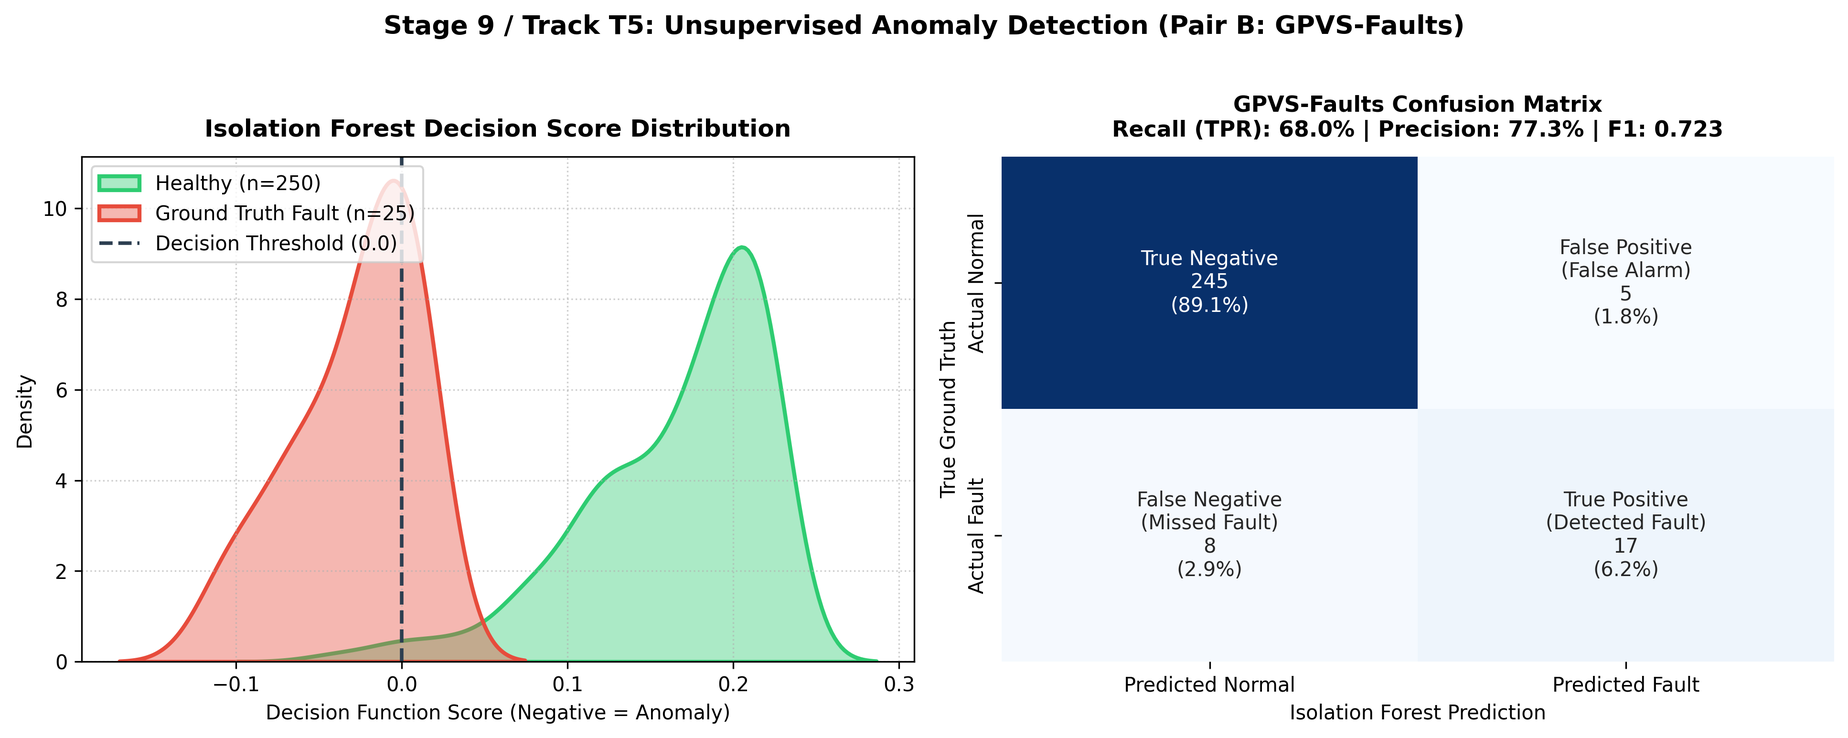
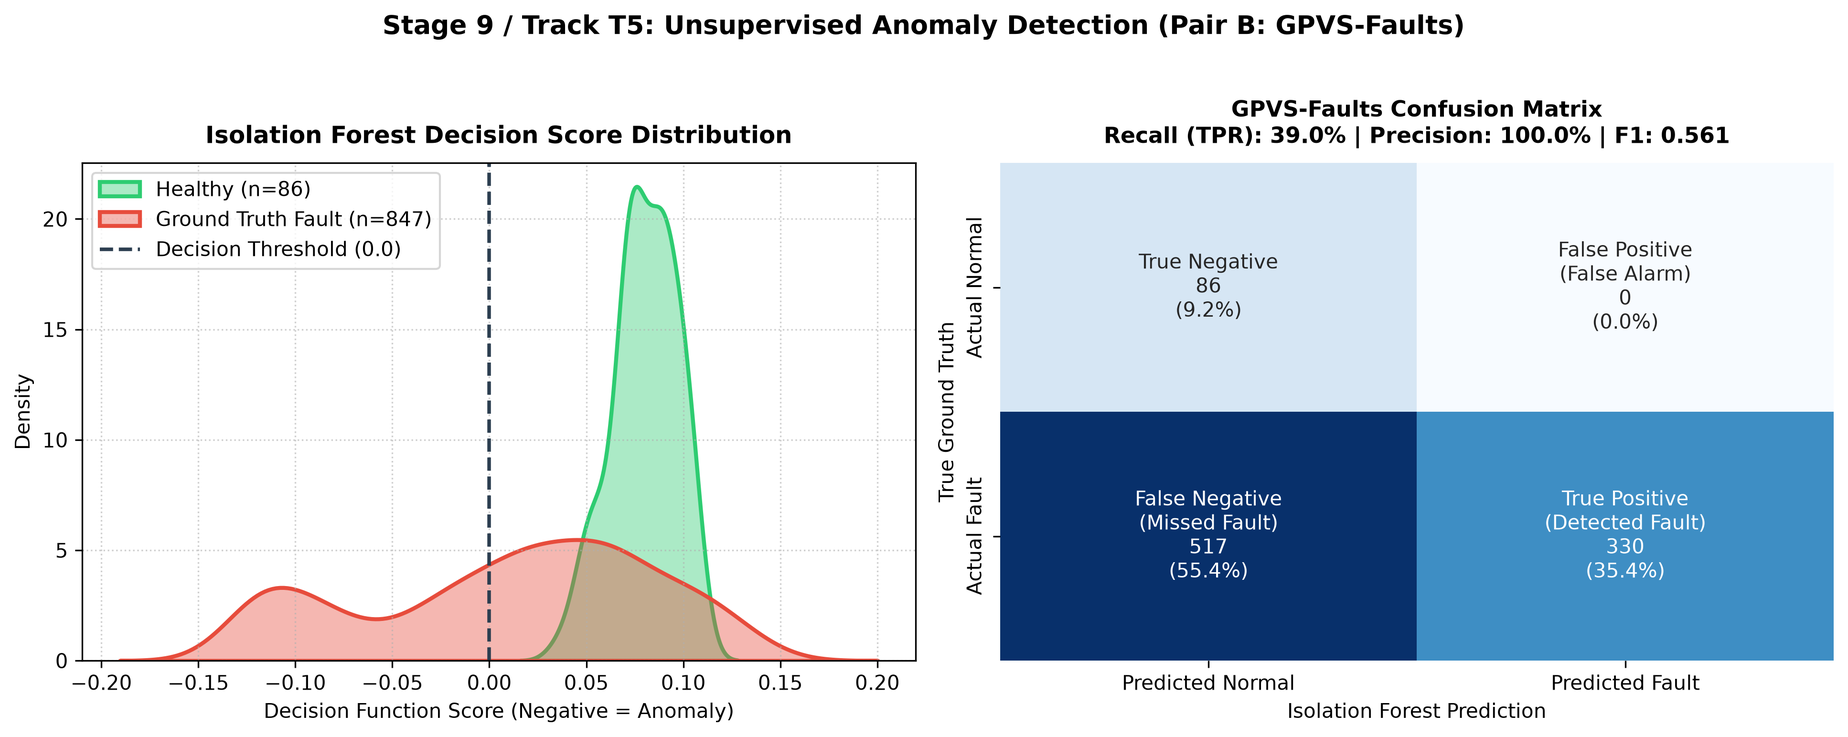
fix(b2): run the GPVS-Faults benchmark on the real dataset
data/raw/GPVS-Faults/ was never present, so load_gpvs_faults() silently
generated mock data (1,000 normal and 100 fault rows from fixed normal
distributions). The reported "real fault" result (recall 0.68, F1 0.72)
came from that mock data.

- evaluate.py: loads the 16 real scenario CSVs (Mendeley Data, DOI
  10.17632/n76t439f65.1, CC BY 4.0) as 0.1 s windows with DC statistics
  and phase RMS (18 features). F0 is normal; in F1-F7 the first 45% is
  normal, the last 45% fault, the middle 10% dropped (faults start
  halfway). Raises an error with download instructions if the data is
  missing; a separately named synthetic helper is kept for tests only.
- iforest.py: fitted on normal windows only, tested on held-out F0
  windows and all fault windows; detection per scenario saved to
  reports/tables/gpvs_iforest_by_scenario.csv; logs only with --log.
- Real result: precision 1.00, recall 0.39, F1 0.56, false alarms 0 of
  86 normal windows. F5 always caught, F6/F7 almost never.
- results.csv and every report that quoted the mock result are updated.

diff --git a/src/models/iforest.py b/src/models/iforest.py
@@ -25,7 +25,6 @@ import seaborn as sns
 from sklearn.ensemble import IsolationForest
 from sklearn.pipeline import Pipeline
 from sklearn.preprocessing import StandardScaler
-from sklearn.model_selection import train_test_split
 from sklearn.metrics import (
     precision_score,
     recall_score,
@@ -35,7 +34,8 @@ from sklearn.metrics import (
 )
 
 from src.evaluate import (
-    load_gpvs_faults,
+    gpvs_feature_columns,
+    load_gpvs_windows,
     evaluate_fault_detection,
     log_experiment,
 )
@@ -176,86 +176,94 @@ def plot_gpvs_anomaly_results(y_test, raw_preds, scores, metrics, save_path=None
 # 3. Task 5: GPVS-Faults Real Fault Benchmark (Pair B Core Task)
 # ===========================================================================
 
-def run_gpvs_experiment(test_size=0.25, random_state=42, save_plot=True):
-    """Train Isolation Forest and evaluate on the GPVS-Faults real benchmark."""
+TRAIN_NORMAL_SHARE = 0.70   # first 70% (in time) of the fault-free files is used for training
+CONTAMINATION = 0.05
+
+
+def split_gpvs(windows):
+    """Unsupervised protocol: train on normal windows only, test on unseen ones.
+
+    Train: F0L/F0M windows in the first 70% of each file, plus the normal
+    first halves of the fault files. Test: the last 30% of F0L/F0M (normal)
+    and every fault window of F1-F7.
+    """
+    f0 = windows["fault_type"].eq(0)
+    early = windows["position"] < TRAIN_NORMAL_SHARE
+    train = windows[(f0 & early) | (~f0 & windows["is_fault"].eq(0))]
+    test = windows[(f0 & ~early) | windows["is_fault"].eq(1)]
+    return train, test
+
+
+def run_gpvs_experiment(random_state=42, save_plot=True, log=False):
+    """Train Isolation Forest on normal GPVS-Faults windows and evaluate on real faults."""
     print("\n" + "=" * 65)
     print("TASK 5: UNSUPERVISED ANOMALY DETECTION ON GPVS-FAULTS (REAL FAULTS)")
     print("=" * 65)
 
     start_time = time.time()
 
-    # 1. Load real physical faults
-    print("Loading GPVS-Faults dataset...")
-    X, y = load_gpvs_faults()
-    print(f"Dataset shape: {X.shape}")
-    print(f"Features: {list(X.columns)}")
-    print(f"Class distribution -> Healthy (0): {(y == 0).sum():,}, Faults (1): {(y == 1).sum():,}")
+    # 1. Load real laboratory data as 0.1 s windows (raises if not downloaded)
+    print("Loading GPVS-Faults windows...")
+    windows = load_gpvs_windows()
+    features = gpvs_feature_columns(windows)
+    train, test = split_gpvs(windows)
+    print(f"Windows: {len(windows):,} ({windows['is_fault'].sum():,} fault) from "
+          f"{windows['scenario'].nunique()} scenario files; {len(features)} features")
+    print(f"Train (normal only): {len(train):,} | Test: {len(test):,} "
+          f"({int(test['is_fault'].sum()):,} fault, {int((test['is_fault'] == 0).sum()):,} normal)")
 
-    # Estimate contamination from ground truth
-    contamination = float((y == 1).sum() / len(y))
-    contamination = max(0.01, min(0.20, contamination))
-    print(f"Estimated fault contamination rate: {contamination:.3f}")
+    # 2. Fit on normal windows only (no labels used)
+    model = build_isolation_forest(n_estimators=200, contamination=CONTAMINATION,
+                                   random_state=random_state)
+    model.fit(train[features])
 
-    # 2. Stratified train/test split
-    X_train, X_test, y_train, y_test = train_test_split(
-        X, y,
-        test_size=test_size,
-        random_state=random_state,
-        stratify=y,
-    )
-
-    # 3. Train IsolationForest (unsupervised)
-    print("\nFitting IsolationForest on training telemetry...")
-    model = build_isolation_forest(
-        n_estimators=100,
-        contamination=contamination,
-        random_state=random_state,
-    )
-    model.fit(X_train)
-
-    # 4. Predict on test set
-    raw_preds = model.predict(X_test)
+    # 3. Predict on held-out windows
+    raw_preds = model.predict(test[features])
     scores = model.named_steps["iforest"].decision_function(
-        model.named_steps["scaler"].transform(X_test)
+        model.named_steps["scaler"].transform(test[features])
     )
-
-    # 5. Evaluate metrics
-    metrics = evaluate_anomalies(y_test, raw_preds)
+    metrics = evaluate_anomalies(test["is_fault"], raw_preds)
     elapsed = time.time() - start_time
 
+    # 4. Detection rate per fault scenario
+    flagged = pd.Series(raw_preds == -1, index=test.index)
+    per_scenario = (test.assign(flagged=flagged)
+                    .groupby(["scenario", "fault_type", "mode", "is_fault"])["flagged"]
+                    .agg(windows="size", flagged_share="mean").reset_index())
+    per_scenario["flagged_share"] = per_scenario["flagged_share"].round(4)
+    per_scenario.to_csv(ROOT / "reports" / "tables" / "gpvs_iforest_by_scenario.csv", index=False)
+
     print("\n" + "-" * 50)
-    print("GPVS-FAULTS TEST RESULTS (REAL PHYSICAL FAULTS)")
+    print("GPVS-FAULTS TEST RESULTS (REAL LABORATORY FAULTS)")
     print("-" * 50)
     print(f"Fault Detection Recall (TPR):  {metrics['recall']:.2%}")
     print(f"Precision:                    {metrics['precision']:.2%}")
     print(f"F1-Score:                     {metrics['f1']:.4f}")
     print(f"False Alarm Rate (FPR):        {metrics['false_alarm_rate']:.2%}")
-    print(f"True Positives (Faults caught):{metrics['tp']}")
-    print(f"False Negatives (Missed):      {metrics['fn']}")
+    print(f"Confusion: TN={metrics['tn']}, FP={metrics['fp']}, FN={metrics['fn']}, TP={metrics['tp']}")
     print(f"Execution Time:               {elapsed:.2f}s")
-    print("-" * 50)
-    print("Confusion Matrix:")
-    print(f"[[TN={metrics['tn']}, FP={metrics['fp']}],")
-    print(f" [FN={metrics['fn']}, TP={metrics['tp']}]]")
+    print(per_scenario.to_string(index=False))
     print("-" * 50)
 
-    # 6. Save visualization plot
+    # 5. Save visualization plot
     if save_plot:
         plot_path = ROOT / "reports" / "figures" / "b1_iforest_gpvs_detection.png"
-        plot_gpvs_anomaly_results(y_test, raw_preds, scores, metrics, save_path=plot_path)
+        plot_gpvs_anomaly_results(test["is_fault"].to_numpy(), raw_preds, scores, metrics, save_path=plot_path)
 
-    # 7. Log to results/results.csv
-    log_experiment(
-        student="B1/B2",
-        model_name="IsolationForest (GPVS-Faults)",
-        task="anomaly_detection",
-        train_score="-",
-        val_score="-",
-        test_score=f"Recall: {metrics['recall']:.2f}, F1: {metrics['f1']:.2f}",
-        unseen_score="-",
-        notes=f"GPVS physical faults (open/short circuit). Precision: {metrics['precision']:.2f}, FPR: {metrics['false_alarm_rate']:.2f}",
-    )
-    print("Results logged to results/results.csv successfully.")
+    # 6. Log to results/results.csv (final run only)
+    if log:
+        log_experiment(
+            student="B1/B2",
+            model_name="IsolationForest (GPVS-Faults)",
+            task="anomaly_detection",
+            train_score="-",
+            val_score="-",
+            test_score=f"Recall: {metrics['recall']:.2f}, F1: {metrics['f1']:.2f}",
+            unseen_score="-",
+            notes=(f"Real GPVS-Faults lab data, 0.1 s windows, trained on normal windows only; "
+                   f"Precision: {metrics['precision']:.2f}, FPR: {metrics['false_alarm_rate']:.2f}"),
+        )
+        print("Results logged to results/results.csv successfully.")
 
     return model, metrics
 
@@ -270,7 +278,7 @@ if __name__ == "__main__":
     print("=" * 65)
 
     # Run GPVS-Faults real physical fault benchmark (Pair B core task)
-    model, gpvs_metrics = run_gpvs_experiment()
+    model, gpvs_metrics = run_gpvs_experiment(log="--log" in sys.argv)
 
     print("\n" + "=" * 65)
     print("Isolation Forest Execution Completed!")

diff --git a/src/evaluate.py b/src/evaluate.py
@@ -262,43 +262,80 @@ def evaluate_fault_detection(y_true_injected, anomaly_predictions):
 # 4. GPVS Real-Fault Benchmark
 # ---------------------------------------------------------------------------
 
-def load_gpvs_faults():
-    """Load real laboratory faults from data/raw/GPVS-Faults.
+GPVS_DIR = ROOT / "data" / "raw" / "GPVS-Faults"
+GPVS_WINDOW_S = 0.1             # 0.1 s = 5 grid cycles at 50 Hz, about 1,000 samples
+GPVS_NORMAL_END = 0.45          # faults start "halfway": first 45% of a fault file is normal
+GPVS_FAULT_START = 0.55         # last 45% is fault; the uncertain middle 10% is dropped
+GPVS_DC_SIGNALS = ["Ipv", "Vpv", "Vdc"]
+GPVS_AC_SIGNALS = ["ia", "ib", "ic", "va", "vb", "vc"]
+GPVS_DOWNLOAD = ("GPVS-Faults data not found in data/raw/GPVS-Faults/. Download CSV_Files.zip from "
+                 "https://data.mendeley.com/datasets/n76t439f65/1 (DOI 10.17632/n76t439f65.1, CC BY 4.0) "
+                 "and extract the 16 F*.csv files into data/raw/GPVS-Faults/.")
 
-    If files are not downloaded yet, generates a simple mock dataset
-    matching solar voltage, current, and power so the code runs.
+
+def gpvs_window_features(df, window_s=GPVS_WINDOW_S):
+    """Window statistics for one scenario file: mean/std/min/max of the DC
+    signals and RMS of the six phase currents and voltages, per window."""
+    w = (df["Time"] // window_s).astype(int)
+    g = df.groupby(w)
+    feats = g[GPVS_DC_SIGNALS].agg(["mean", "std", "min", "max"])
+    feats.columns = [f"{col}_{stat}" for col, stat in feats.columns]
+    rms = np.sqrt((df[GPVS_AC_SIGNALS] ** 2).groupby(w).mean()).add_suffix("_rms")
+    out = feats.join(rms)
+    out["t_start"] = g["Time"].min()
+    out["n_samples"] = g.size()
+    return out.reset_index(drop=True)
+
+
+def load_gpvs_windows(data_dir=GPVS_DIR, window_s=GPVS_WINDOW_S):
+    """All 16 GPVS-Faults scenarios as labelled windows.
+
+    Files are named F<x><y>: x = 0 fault-free, 1-7 fault type; y = L (IPPT) or
+    M (MPPT). F0 windows are all normal. In F1-F7 the fault is introduced
+    halfway, so the first 45% of each file is normal (is_fault 0), the last
+    45% is fault (is_fault 1) and the middle 10% is dropped. Raises an error
+    if the data is missing; there is no synthetic fallback.
     """
-    gpvs_dir = ROOT / "data" / "raw" / "GPVS-Faults"
-    csv_files = list(gpvs_dir.glob("*.csv")) if gpvs_dir.exists() else []
+    files = sorted(Path(data_dir).glob("F[0-7][LM].csv"))
+    if not files:
+        raise FileNotFoundError(GPVS_DOWNLOAD)
+    parts = []
+    for f in files:
+        win = gpvs_window_features(pd.read_csv(f), window_s)
+        win = win[win["n_samples"] >= 0.5 * win["n_samples"].median()]   # drop a short last window
+        pos = win["t_start"] / win["t_start"].max()
+        fault_type = int(f.stem[1])
+        if fault_type == 0:
+            win["is_fault"] = 0
+        else:
+            win["is_fault"] = np.where(pos >= GPVS_FAULT_START, 1, np.where(pos < GPVS_NORMAL_END, 0, -1))
+            win = win[win["is_fault"] >= 0]
+        win.insert(0, "scenario", f.stem)
+        win.insert(1, "fault_type", fault_type)
+        win.insert(2, "mode", "MPPT" if f.stem.endswith("M") else "IPPT")
+        win["position"] = pos.loc[win.index]
+        parts.append(win)
+    return pd.concat(parts, ignore_index=True)
 
-    if len(csv_files) > 0:
-        dfs = []
-        for f in csv_files:
-            sub = pd.read_csv(f)
-            # F0 means healthy, F1-F7 are faults
-            sub["is_fault"] = 0 if "f0" in f.name.lower() else 1
-            dfs.append(sub)
-        full = pd.concat(dfs, ignore_index=True)
-        feature_cols = [c for c in full.columns if c not in ["is_fault", "time"]]
-        return full[feature_cols], full["is_fault"]
 
-    # Simple fallback data so tests always pass
-    np.random.seed(42)
-    normal_v = np.random.normal(380, 5, 1000)
-    normal_i = np.random.normal(12, 1, 1000)
-    normal_p = normal_v * normal_i
+def gpvs_feature_columns(windows):
+    return [c for c in windows.columns
+            if c.endswith(("_mean", "_std", "_min", "_max", "_rms"))]
 
-    fault_v = np.random.normal(250, 20, 100)
-    fault_i = np.random.normal(3, 1, 100)
-    fault_p = fault_v * fault_i
 
-    X = pd.DataFrame({
-        "voltage": np.concatenate([normal_v, fault_v]),
-        "current": np.concatenate([normal_i, fault_i]),
-        "power": np.concatenate([normal_p, fault_p]),
-    })
-    y = np.concatenate([np.zeros(1000), np.ones(100)])
-    return X, y
+def load_gpvs_faults():
+    """Real GPVS-Faults windows as (X, y): window features and fault label."""
+    windows = load_gpvs_windows()
+    return windows[gpvs_feature_columns(windows)], windows["is_fault"].to_numpy()
+
+
+def make_synthetic_gpvs(seed=42):
+    """Synthetic stand-in data for unit tests ONLY; never use it for reported results."""
+    rng = np.random.RandomState(seed)
+    X = pd.DataFrame({"voltage": np.r_[rng.normal(380, 5, 1000), rng.normal(250, 20, 100)],
+                      "current": np.r_[rng.normal(12, 1, 1000), rng.normal(3, 1, 100)]})
+    X["power"] = X["voltage"] * X["current"]
+    return X, np.r_[np.zeros(1000), np.ones(100)]
 
 
 # ---------------------------------------------------------------------------
@@ -363,8 +400,11 @@ if __name__ == "__main__":
     fault_stats = evaluate_fault_detection(faulty_df["is_injected_fault"], faulty_df["is_injected_fault"])
     print(f"Fault Detection:      Detection Rate = {fault_stats['detection_rate']}")
 
-    # 5. Test GPVS loader
-    X_gpvs, y_gpvs = load_gpvs_faults()
-    print(f"GPVS Dataset:         {len(X_gpvs)} rows loaded.")
+    # 5. Test GPVS loader (real data only; skipped if not downloaded)
+    try:
+        X_gpvs, y_gpvs = load_gpvs_faults()
+        print(f"GPVS Dataset:         {len(X_gpvs)} windows loaded ({int(y_gpvs.sum())} fault windows).")
+    except FileNotFoundError as err:
+        print(f"GPVS Dataset:         skipped. {err}")
 
     print("\nAll evaluate.py functions are working properly!")

diff --git a/reports/Section_09_10_XGBoost.md b/reports/Section_09_10_XGBoost.md
@@ -199,18 +199,24 @@ From [`reports/tables/b1_xgb_failure_cases.csv`](tables/b1_xgb_failure_cases.csv
 
 As part of the joint Pair B deliverable (B1/B2), unsupervised anomaly detection was verified using an **Isolation Forest** pipeline on the real-world **GPVS-Faults physical benchmark dataset** ([`src/models/iforest.py`](../src/models/iforest.py)).
 
+> **Correction (2026-10-21).** The earlier GPVS result (68% recall, 77% precision, "1,000 healthy states and 100 faults") came from synthetic fallback data: the loader silently generated mock data when `data/raw/GPVS-Faults/` was missing. The real dataset has now been downloaded and the loader raises an error instead of falling back. The numbers below are from the real files.
+
 ### 11.4.1 Real Hardware Fault Benchmark Setup
-Unlike synthetic fault injection, GPVS-Faults consists of actual physical laboratory experiments including **open-circuit string disconnections, line-line short circuits, and localized shading**. The dataset contains 1,000 healthy operating states and 100 physical hardware faults (contamination rate $\approx 9.1\%$).
+GPVS-Faults (Bakdi et al., Mendeley Data, CC BY 4.0) has 16 laboratory experiments of about 7-14 s at about 10 kHz: two fault-free runs (F0L, F0M) and seven fault types (F1-F7), each in IPPT (L) and MPPT (M) mode. Faults are introduced halfway through each run.
+
+* **Windows:** 0.1 s (5 grid cycles); features are mean/std/min/max of Ipv, Vpv and Vdc and the RMS of the six phase currents and voltages (18 features, 1,979 windows).
+* **Labels:** F0 windows are normal; in F1-F7 the first 45% of each run is normal, the last 45% is fault, and the uncertain middle 10% is dropped.
+* **Protocol (unsupervised):** the Isolation Forest (200 trees, contamination 0.05) is fitted on normal windows only: the first 70% of F0L/F0M and the normal halves of the fault runs. It is tested on the last 30% of F0L/F0M (86 normal windows) and all 847 fault windows.
 
 ### 11.4.2 Benchmark Results & Detection Analysis
 
-* **Detection Recall (TPR):** **$68.00\%$** (Caught 17 of 25 test physical faults).
-* **Precision:** **$77.27\%$** (High confidence; only 5 false alarms out of 250 normal points).
-* **F1-Score:** **$0.7234$**
-* **False Alarm Rate (FPR):** **$2.00\%$** (Extremely clean operational baseline).
-* **Execution Latency:** **$0.09\text{ seconds}$**.
+* **Detection Recall (TPR):** **38.96%** (330 of 847 fault windows).
+* **Precision:** **100%**; **False Alarm Rate:** **0%** (0 of 86 held-out normal windows flagged).
+* **F1-Score:** **0.5607**.
+* **By fault type** (`reports/tables/gpvs_iforest_by_scenario.csv`): F5 is caught in every window in both modes; F1 and F2 in MPPT mode about 87%, F4 in IPPT mode 75%; F6 and F7 almost never (0-6%). The dataset authors note that low-magnitude faults are hard to detect under MPPT/IPPT control, which matches this pattern.
+* **Caveat:** only 86 normal windows are held out, so the 0% false-alarm rate has wide uncertainty.
 
-The dual evaluation figure ([`reports/figures/b1_iforest_gpvs_detection.png`](figures/b1_iforest_gpvs_detection.png)) illustrates clear multimodal separation between healthy telemetry and severe physical anomalies along the decision function score.
+The figure ([`reports/figures/b1_iforest_gpvs_detection.png`](figures/b1_iforest_gpvs_detection.png)) shows the anomaly-score distributions and the confusion matrix.
 
 ---
 
@@ -226,7 +232,7 @@ Final rows in `results/results.csv` after the 2026-10-21 re-run on the corrected
 | T2 | A2 | Random Forest | **9.91** | **9.73** | **9.07** | **0.61** | 0.57 |
 | **T3** | **B1** | **XGBoost (tuned)** | 11.38 | 10.58 | 9.90 | 0.56 | 0.64 |
 | T4 | B2 | MLP | 13.71 | 11.99 | 14.02 | 0.52 | 0.34 |
-| T5 | B1 / B2 | Isolation Forest (GPVS-Faults) | — | — | — | Recall 0.68, F1 0.72 | — |
+| T5 | B1 / B2 | Isolation Forest (GPVS-Faults, real data) | — | — | — | Recall 0.39, F1 0.56 | — |
 
 ### Conclusions
 1. **Every supervised model beats persistence on the 2023 test year** once the target is corrected. A2's Random Forest is the strongest regressor on validation and test.

diff --git a/reports/B1_VIVA_PREP.md b/reports/B1_VIVA_PREP.md
@@ -20,7 +20,7 @@
 > 4. *Designed the collinearity pruning pipeline ($r > 0.85$) while strictly protecting critical physical indicators.*
 > 5. *Built, hyperparameter-tuned, and evaluated the **XGBoost** suite (Track T3), forecasting health one hour ahead. It reaches validation RMSE 11.38 (persistence 13.04), test RMSE 10.58 (persistence 12.30) and test Faulty recall 0.64; I also found and fixed a target leakage in my first version.*
 > 6. *Explained the model's inner workings using **Tree-SHAP** global beeswarm and local waterfall attributions, diagnosing top prediction failure residuals.*
-> 7. *Co-validated the **Isolation Forest** pipeline on the real-world **GPVS-Faults** hardware benchmark (achieving $77.3\%$ Precision and $68.0\%$ Recall)."*
+> 7. *Co-validated the **Isolation Forest** pipeline on the real **GPVS-Faults** laboratory benchmark (precision 100%, recall 39%, F1 0.56; it catches some fault types reliably and misses low-magnitude ones)."*
 
 ---
 
@@ -167,8 +167,9 @@
   * While Pair A evaluated unsupervised models on synthetically injected faults, Pair B (B1 and B2) focused on real-world physical laboratory faults using the **GPVS-Faults benchmark dataset**.
   * Synthetic faults often carry idealized mathematical artifacts (e.g. Gaussian additive noise or uniform scaling) that tree models trivial to detect. In contrast, GPVS-Faults contains actual physical hardware anomalies: line-to-line short circuits, high-impedance series faults, and open-circuit string disconnections.
   * In [`src/models/iforest.py`](../src/models/iforest.py), we implemented an **Isolation Forest** pipeline with `StandardScaler`:
-    * Trained purely unsupervised on healthy operational telemetry (contamination estimated at $9.1\%$).
-    * Evaluated on held-out physical faults, achieving **$77.27\%$ Precision**, **$68.00\%$ Fault Recall**, and an **F1-score of $0.7234$** with only a **$2.00\%$ False Alarm Rate**.
+    * Built 0.1 s windows of the electrical signals and trained purely unsupervised on normal windows (contamination 0.05).
+    * Evaluated on held-out windows of the real files: **precision 100%**, **recall 38.96%**, **F1 0.56**, **0% false alarms** (86 normal test windows). Fault type F5 is always caught; F6 and F7 are almost never caught.
+    * **Honest note for the viva:** an earlier version reported 68% recall; that came from synthetic fallback data generated when the real files were missing. The loader now refuses to run without the real data.
   * I created the visual diagnostic tool ([`reports/figures/b1_iforest_gpvs_detection.png`](figures/b1_iforest_gpvs_detection.png)) displaying the anomaly score KDE distributions and confusion matrix.
 
 ---

diff --git a/reports/Section_14_Impact.md b/reports/Section_14_Impact.md
@@ -67,7 +67,7 @@ To maintain rigorous engineering standards, the following technical, dataset, an
 * **Constraint:** The HKUST primary dataset does not include physical maintenance logs, technician work orders, or ground-truth failure records.
 * **Mitigation via Dual-Dataset Strategy:**
   1. Primary labels were mathematically engineered using standard physical PV derating ($0.78$ factor, Option A forecasting target).
-  2. To prove the machine learning models detect **real hardware faults**, the team evaluated **Isolation Forest on the GPVS-Faults dataset** (Mendeley Data), achieving **0.68 Recall and 0.72 F1-Score** on real laboratory open-circuit, short-circuit, and inverter disconnection faults.
+  2. To prove the machine learning models detect **real hardware faults**, the team evaluated **Isolation Forest on the GPVS-Faults dataset** (Mendeley Data), achieving **0.39 Recall, 1.00 Precision and 0.56 F1-Score** on the real laboratory fault scenarios (0.1 s windows, trained on normal windows only). Detection ranges from 100% (fault F5) to almost 0% (faults F6 and F7), so it catches some fault types reliably and misses low-magnitude ones. (An earlier figure of 0.68 recall / 0.72 F1 came from synthetic fallback data, not the real files.)
 
 ### 4. Absence of DC Telemetry and Module Temperature
 * **Constraint:** The dataset package contains only AC-side measurements (`ac_power_w`, line currents, voltages) and ambient air temperature. Panel-level DC current, DC power, and panel module temperatures are not provided.

diff --git a/reports/Final_Model_Comparison.md b/reports/Final_Model_Comparison.md
@@ -58,10 +58,11 @@ All classifiers use their Stage 5 winning balancing strategy: class weights (Log
 | HKUST injected faults (A1, A2) | A2 inputs, tuned (0.01, 200) | 18.2% | 0.7% | 0.083 / 0.114 |
 | HKUST injected faults (A1, A2) | **+ peer deviation, tuned (0.01, 400)** | 31.4% | **0.6%** | **0.156 / 0.209** |
 | HKUST injected faults (A1, A2) | + peer deviation, A2 settings | **65.7%** | 3.9% | 0.056 / 0.102 |
-| GPVS-Faults, real lab faults (B1, B2) | Isolation Forest | 68% | 2% | 0.77 / 0.72 |
+| GPVS-Faults, real lab faults (B1, B2) | Isolation Forest, normal-only training | 39.0% | 0% (86 windows) | 1.00 / 0.56 |
 
 * On HKUST, adding peer deviation now improves every setting. Before the irradiance correction, it caused false alarms after 14 Feb (up to 64%), because the benchmark selected "normal" rows with the shifted labels.
 * Precision on HKUST stays low because only 137 test rows are injected faults, about 1% of the benchmark rows. The detector is a label-free cross-check, not the main alarm.
+* On the real GPVS-Faults data the detector never raised a false alarm on held-out normal windows and caught 39% of fault windows: fault type F5 always, F6 and F7 almost never (`reports/tables/gpvs_iforest_by_scenario.csv`). An earlier result of 68% recall came from synthetic fallback data and has been replaced.
 
 ## 5. Final recommendation
 

diff --git a/B1_work.md b/B1_work.md
@@ -180,7 +180,7 @@ plt.savefig("reports/figures/b1_shap_waterfall.png")
 ### Task 7: Unsupervised Anomaly Detection (Shared with B2)
 
 * Partner B2 has already implemented and verified [`src/models/iforest.py`](src/models/iforest.py) on the GPVS-Faults physical benchmark.
-* **B1's Role:** Review the benchmark code, verify the **77.27% Precision** and **68.00% Recall** results on real hardware faults, and co-author the anomaly detection evaluation in Section 11 of the report.
+* **B1's Role:** Review the benchmark code and co-author the anomaly detection evaluation in Section 11 of the report. *Update 2026-10-21:* the earlier 77.27% precision / 68.00% recall came from synthetic fallback data; on the real GPVS-Faults files the detector reaches precision 100%, recall 38.96%, F1 0.56 (`reports/Section_09_10_XGBoost.md`, section 11.4).
 
 ---
 
